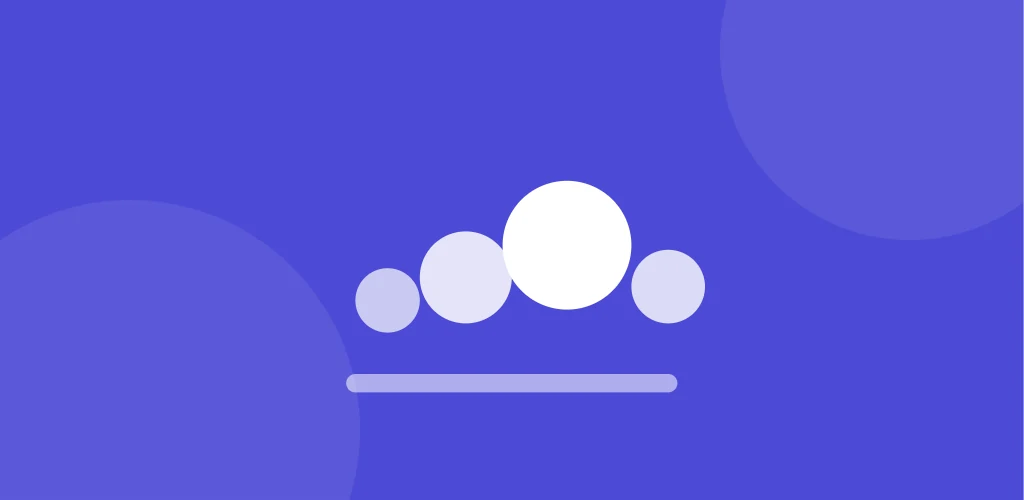
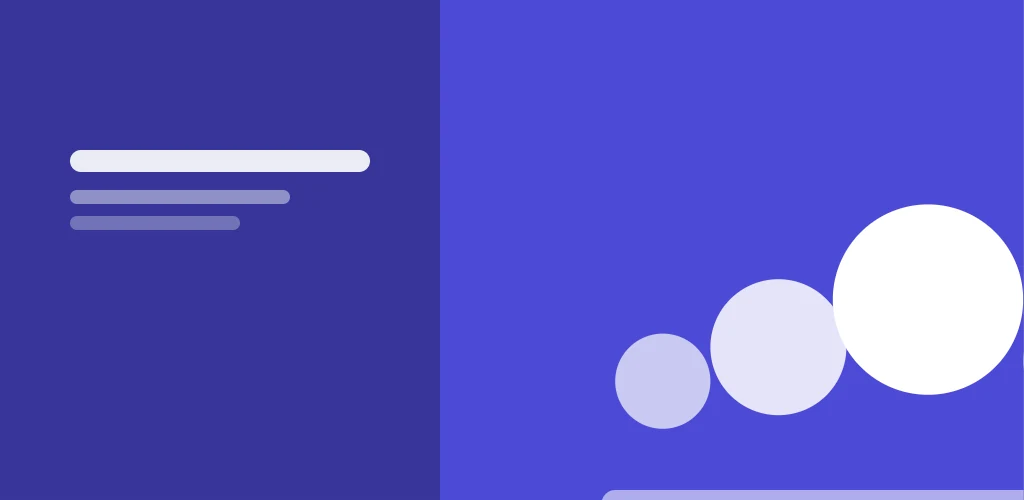
Market: tweak heroes use a screen scene for Roll Call, Cabinet, Palette and Colored Albums, and two tones for the rest

diff --git a/docs/sdk/source/assets/icons/generate.py b/docs/sdk/source/assets/icons/generate.py
@@ -102,22 +102,112 @@ def svg(top: str, bottom: str, glyph: str) -> str:
 
 HERO_W, HERO_H = 1024, 500
 HERO_DIR = HERE.parent / "heroes"
-# The tweaks get a picture on their page; themes and apps bring their own.
+# The tweaks get a picture on their page; themes and apps bring their own. Two looks: a screen showing the feature
+# (SCENES), and a bold two-tone picture with the icon's glyph running off the edge (everything else).
 HERO_FOR = ["cabinet", "colored-albums", "duet", "flipbook", "harborline", "palette", "roll-call"]
 
 
-def hero_svg(bottom: str, glyph: str) -> str:
-    """A still, flat picture about twice as wide as tall: the tweak's own glyph, large, on its darker color. No words in
-    it (the page says those, in the reader's language) and nothing that moves."""
-    scale = 2.3
-    x = (HERO_W - 192 * scale) / 2
-    y = (HERO_H - 192 * scale) / 2
-    return f"""<svg xmlns="http://www.w3.org/2000/svg" width="{HERO_W}" height="{HERO_H}" viewBox="0 0 {HERO_W} {HERO_H}">
+def shade(color: str, keep: float) -> str:
+    """The color darkened toward black; keep=1 is unchanged."""
+    r, g, b = (int(color[i:i + 2], 16) for i in (1, 3, 5))
+    return "#%02X%02X%02X" % (round(r * keep), round(g * keep), round(b * keep))
+
+
+def phone(screen: str) -> str:
+    """A phone body that runs off the bottom of the picture, with the screen's own shapes inside it."""
+    return f"""<rect x="312" y="48" width="400" height="520" rx="44" fill="#1c1c1e"/>
+  <rect x="326" y="62" width="372" height="520" rx="34" fill="#000"/>
+  {screen.strip()}"""
+
+
+# Each scene is drawn on the phone's screen: x 350 to 674, from y 96 down. Flat shapes, no words, nothing that moves.
+SCENES = {
+    "roll-call": """
+        <rect x="350" y="96" width="52" height="52" rx="14" fill="#5E5CE6"/>
+        <rect x="414" y="96" width="52" height="52" rx="14" fill="#30B0C7"/>
+        <rect x="478" y="96" width="52" height="52" rx="14" fill="#FF9F0A"/>
+        <rect x="542" y="96" width="52" height="52" rx="14" fill="#34C759"/>
+        <circle cx="394" cy="98" r="13" fill="#FF3B30"/><circle cx="394" cy="98" r="5" fill="#fff"/>
+        <rect x="350" y="172" width="324" height="64" rx="16" fill="#fff" opacity=".14"/>
+        <rect x="350" y="248" width="324" height="64" rx="16" fill="#fff" opacity=".14"/>
+        <rect x="350" y="324" width="324" height="64" rx="16" fill="#fff" opacity=".14"/>
+        <rect x="366" y="190" width="28" height="28" rx="8" fill="#5E5CE6"/>
+        <rect x="366" y="266" width="28" height="28" rx="8" fill="#5E5CE6"/>
+        <rect x="366" y="342" width="28" height="28" rx="8" fill="#30B0C7"/>
+        <rect x="410" y="194" width="150" height="8" rx="4" fill="#fff" opacity=".8"/>
+        <rect x="410" y="270" width="170" height="8" rx="4" fill="#fff" opacity=".8"/>
+        <rect x="410" y="346" width="130" height="8" rx="4" fill="#fff" opacity=".8"/>
+    """,
+    "cabinet": """
+        <rect x="350" y="96" width="52" height="52" rx="14" fill="#fff" opacity=".22"/>
+        <rect x="414" y="96" width="52" height="52" rx="14" fill="#3DA2FF"/>
+        <rect x="478" y="96" width="52" height="52" rx="14" fill="#fff" opacity=".22"/>
+        <rect x="542" y="96" width="52" height="52" rx="14" fill="#fff" opacity=".22"/>
+        <rect x="350" y="392" width="52" height="52" rx="14" fill="#fff" opacity=".22"/>
+        <rect x="414" y="392" width="52" height="52" rx="14" fill="#fff" opacity=".22"/>
+        <rect x="360" y="164" width="304" height="196" rx="22" fill="#2C2C2E"/>
+        <rect x="378" y="182" width="44" height="44" rx="10" fill="#FF375F"/>
+        <rect x="436" y="190" width="120" height="8" rx="4" fill="#fff" opacity=".9"/>
+        <rect x="436" y="208" width="80" height="8" rx="4" fill="#fff" opacity=".5"/>
+        <circle cx="610" cy="204" r="14" fill="#fff"/>
+        <rect x="378" y="240" width="268" height="34" rx="10" fill="#fff" opacity=".12"/>
+        <rect x="378" y="284" width="268" height="34" rx="10" fill="#fff" opacity=".12"/>
+        <rect x="378" y="328" width="56" height="20" rx="10" fill="#0A84FF"/>
+        <rect x="442" y="328" width="56" height="20" rx="10" fill="#0A84FF" opacity=".7"/>
+        <rect x="506" y="328" width="56" height="20" rx="10" fill="#0A84FF" opacity=".5"/>
+    """,
+    "palette": """
+        <rect x="350" y="96" width="324" height="76" rx="18" fill="#5E5CE6" opacity=".55"/>
+        <rect x="350" y="184" width="324" height="76" rx="18" fill="#34C759" opacity=".5"/>
+        <rect x="350" y="272" width="324" height="76" rx="18" fill="#FF375F" opacity=".5"/>
+        <rect x="350" y="360" width="324" height="76" rx="18" fill="#30B0C7" opacity=".5"/>
+        <rect x="368" y="114" width="40" height="40" rx="11" fill="#5E5CE6"/>
+        <rect x="368" y="202" width="40" height="40" rx="11" fill="#34C759"/>
+        <rect x="368" y="290" width="40" height="40" rx="11" fill="#FF375F"/>
+        <rect x="368" y="378" width="40" height="40" rx="11" fill="#30B0C7"/>
+        <rect x="424" y="118" width="170" height="9" rx="4" fill="#fff" opacity=".9"/><rect x="424" y="138" width="120" height="8" rx="4" fill="#fff" opacity=".55"/>
+        <rect x="424" y="206" width="150" height="9" rx="4" fill="#fff" opacity=".9"/><rect x="424" y="226" width="110" height="8" rx="4" fill="#fff" opacity=".55"/>
+        <rect x="424" y="294" width="180" height="9" rx="4" fill="#fff" opacity=".9"/><rect x="424" y="314" width="130" height="8" rx="4" fill="#fff" opacity=".55"/>
+        <rect x="424" y="382" width="140" height="9" rx="4" fill="#fff" opacity=".9"/><rect x="424" y="402" width="100" height="8" rx="4" fill="#fff" opacity=".55"/>
+    """,
+    "colored-albums": """
+        <rect x="350" y="96" width="324" height="250" rx="26" fill="#E01E4E" opacity=".75"/>
+        <rect x="372" y="118" width="108" height="108" rx="18" fill="#FF6A8A"/>
+        <circle cx="426" cy="172" r="26" fill="#E01E4E"/>
+        <rect x="500" y="130" width="140" height="10" rx="5" fill="#fff" opacity=".95"/>
+        <rect x="500" y="152" width="100" height="8" rx="4" fill="#fff" opacity=".6"/>
+        <rect x="500" y="190" width="10" height="36" rx="5" fill="#FF9DB4"/>
+        <rect x="518" y="170" width="10" height="56" rx="5" fill="#FF9DB4" opacity=".85"/>
+        <rect x="536" y="198" width="10" height="28" rx="5" fill="#FF9DB4" opacity=".7"/>
+        <rect x="554" y="180" width="10" height="46" rx="5" fill="#FF9DB4" opacity=".85"/>
+        <rect x="372" y="254" width="280" height="8" rx="4" fill="#fff" opacity=".3"/>
+        <rect x="372" y="254" width="150" height="8" rx="4" fill="#fff" opacity=".9"/>
+        <circle cx="428" cy="304" r="14" fill="#fff" opacity=".9"/><circle cx="498" cy="304" r="20" fill="#fff"/><circle cx="568" cy="304" r="14" fill="#fff" opacity=".9"/>
+    """,
+}
+
+
+def hero_svg(name: str, bottom: str, glyph: str) -> str:
+    """A still, flat picture about twice as wide as tall, in the tweak's own color. No words in it (the page says those,
+    in the reader's language) and nothing that moves."""
+    head = f'<svg xmlns="http://www.w3.org/2000/svg" width="{HERO_W}" height="{HERO_H}" viewBox="0 0 {HERO_W} {HERO_H}">'
+    if name in SCENES:
+        return f"""{head}
   <rect width="{HERO_W}" height="{HERO_H}" fill="{bottom}"/>
-  <circle cx="130" cy="430" r="230" fill="#fff" opacity=".08"/>
-  <circle cx="910" cy="50" r="190" fill="#fff" opacity=".08"/>
-  <g transform="translate({x:.0f} {y:.0f}) scale({scale})">
+  {phone(SCENES[name])}
+</svg>
+"""
+    # Two tones, the glyph large and running off the right edge, and a few quiet bars where a title would sit.
+    return f"""{head}
+  <rect width="{HERO_W}" height="{HERO_H}" fill="{shade(bottom, .72)}"/>
+  <rect x="440" width="{HERO_W - 440}" height="{HERO_H}" fill="{bottom}"/>
+  <g transform="translate(520 -20) scale(3.4)">
     {glyph.strip()}
+  </g>
+  <g transform="translate(70 150)" fill="#fff">
+    <rect width="300" height="22" rx="11" opacity=".9"/>
+    <rect y="40" width="220" height="14" rx="7" opacity=".45"/>
+    <rect y="66" width="170" height="14" rx="7" opacity=".3"/>
   </g>
 </svg>
 """
@@ -128,7 +218,7 @@ def heroes() -> None:
     HERO_DIR.mkdir(exist_ok=True)
     for name in HERO_FOR:
         _top, bottom, glyph = ICONS[name]
-        (HERO_DIR / f"{name}.svg").write_text(hero_svg(bottom, glyph))
+        (HERO_DIR / f"{name}.svg").write_text(hero_svg(name, bottom, glyph))
         subprocess.run(
             ["magick", "-background", "none", str(HERO_DIR / f"{name}.svg"), "-quality", "88", str(HERO_DIR / f"{name}.webp")],
             check=True,
